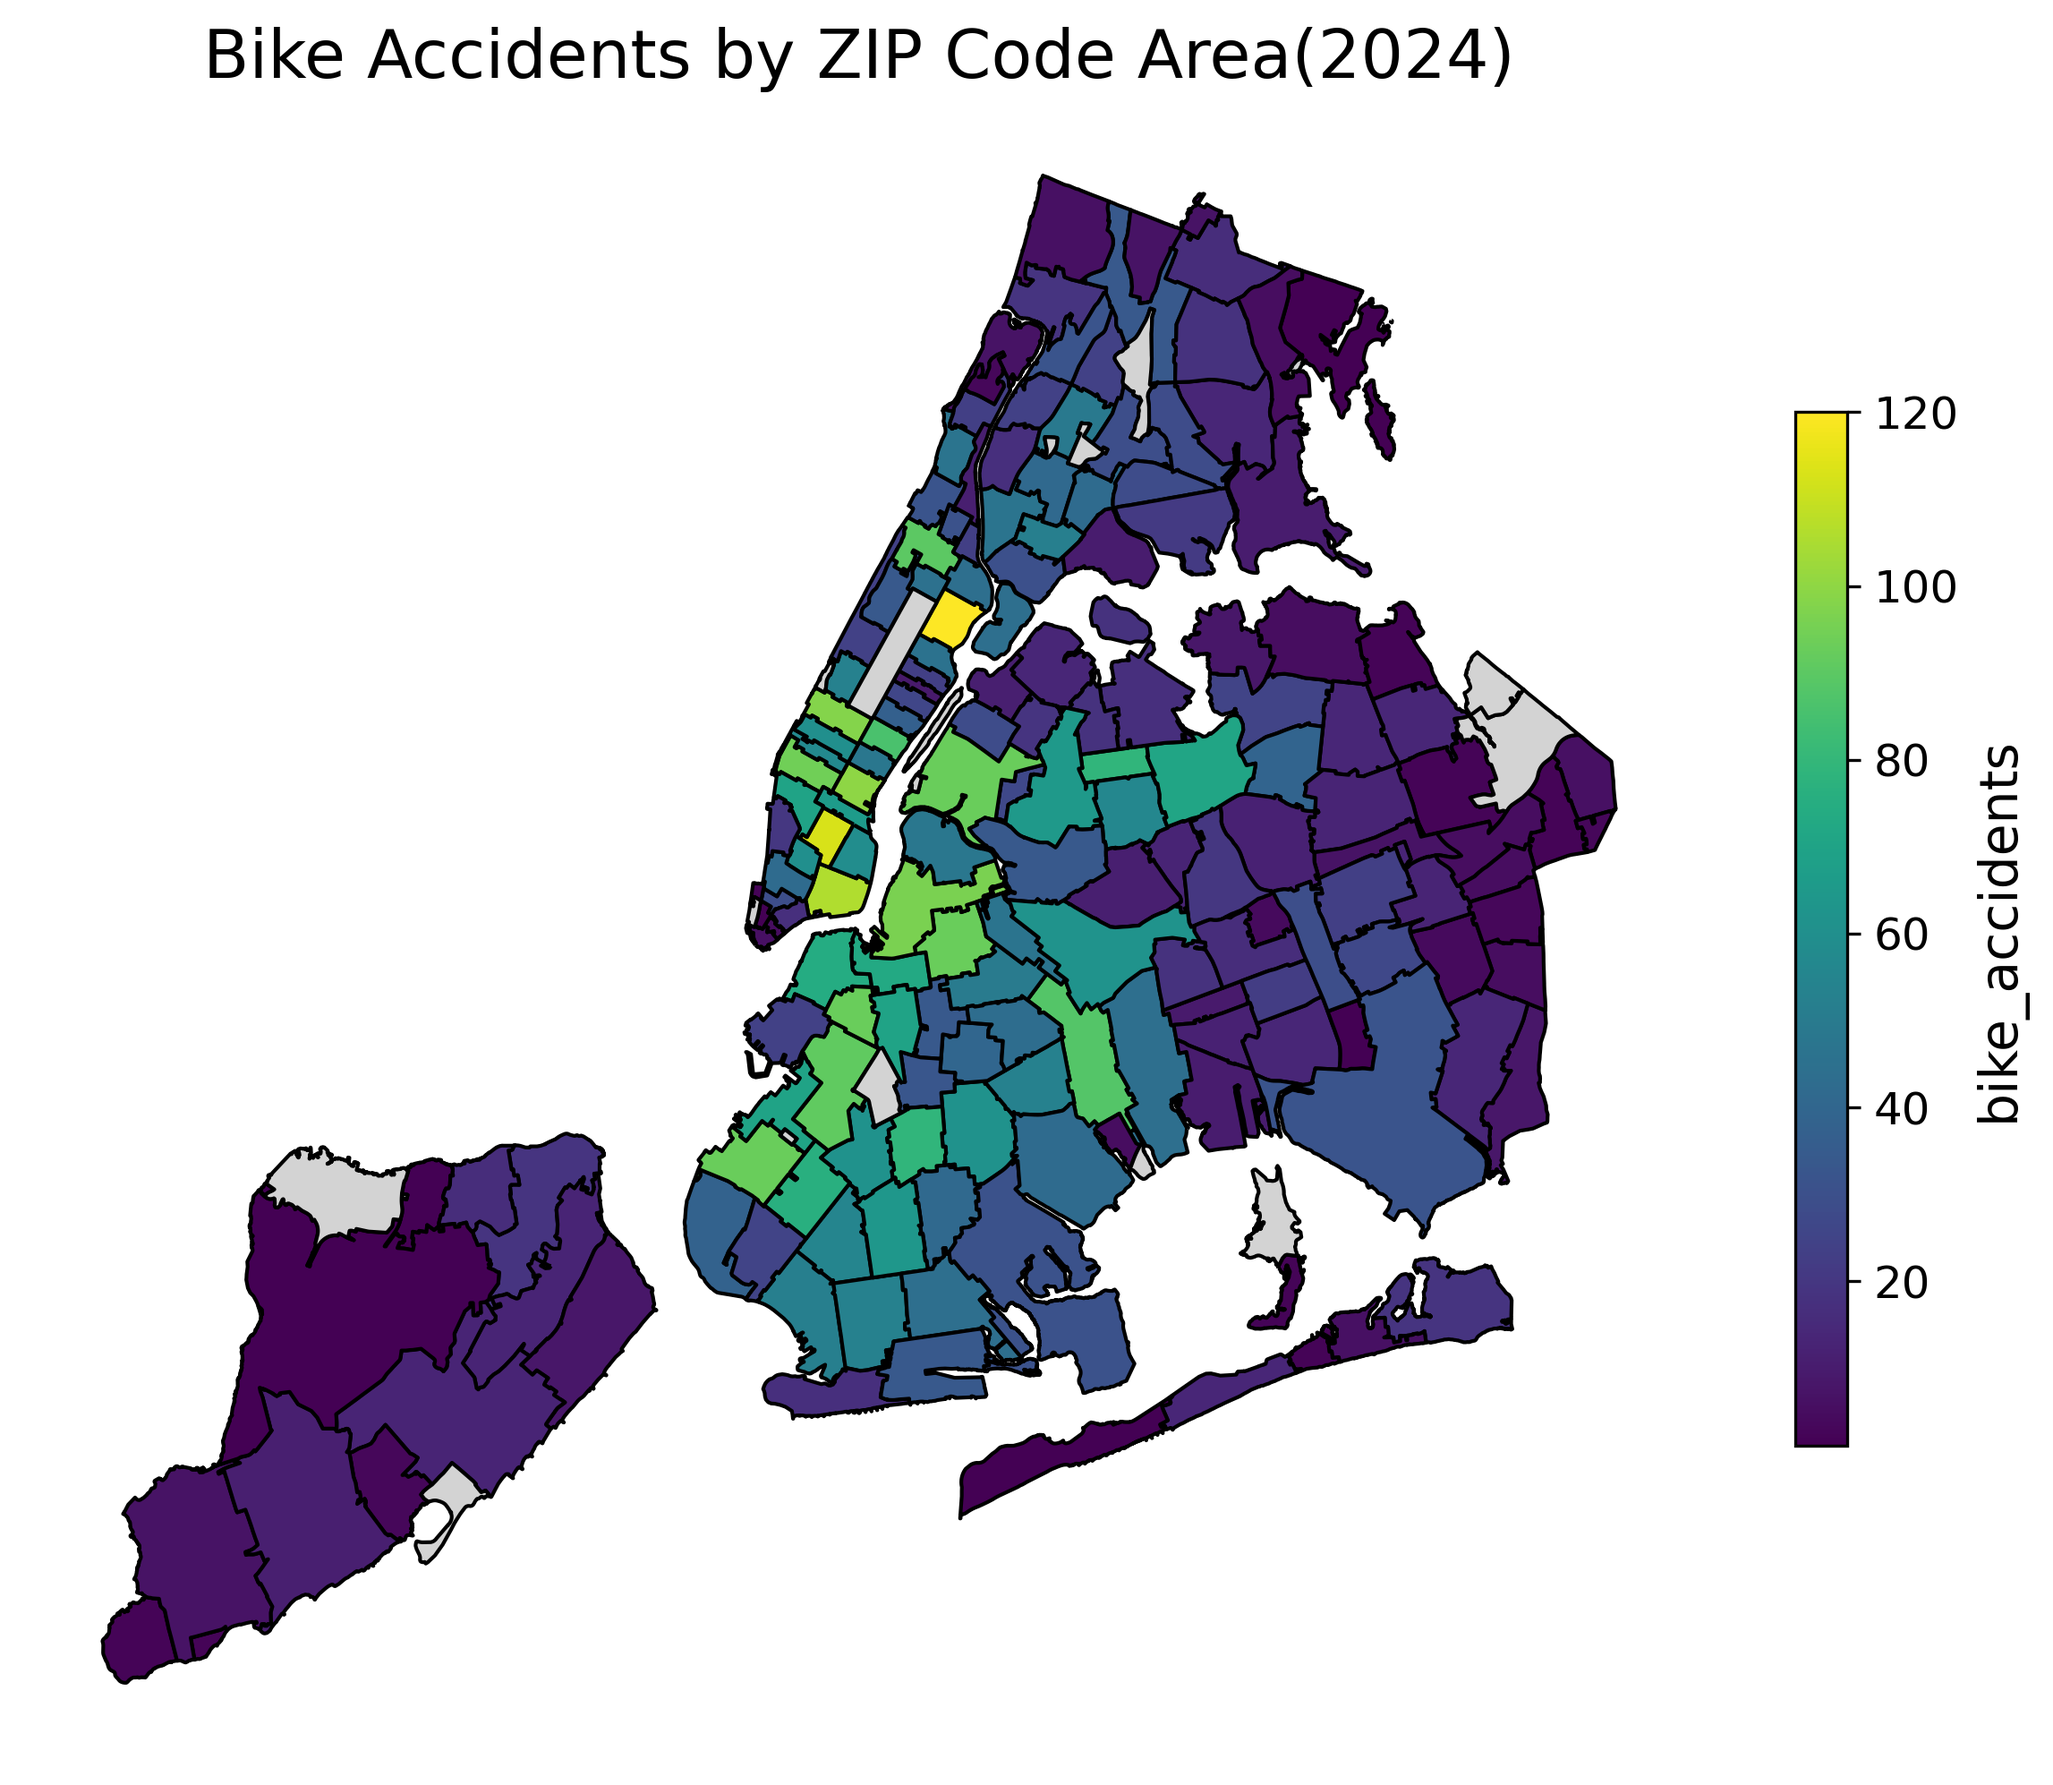
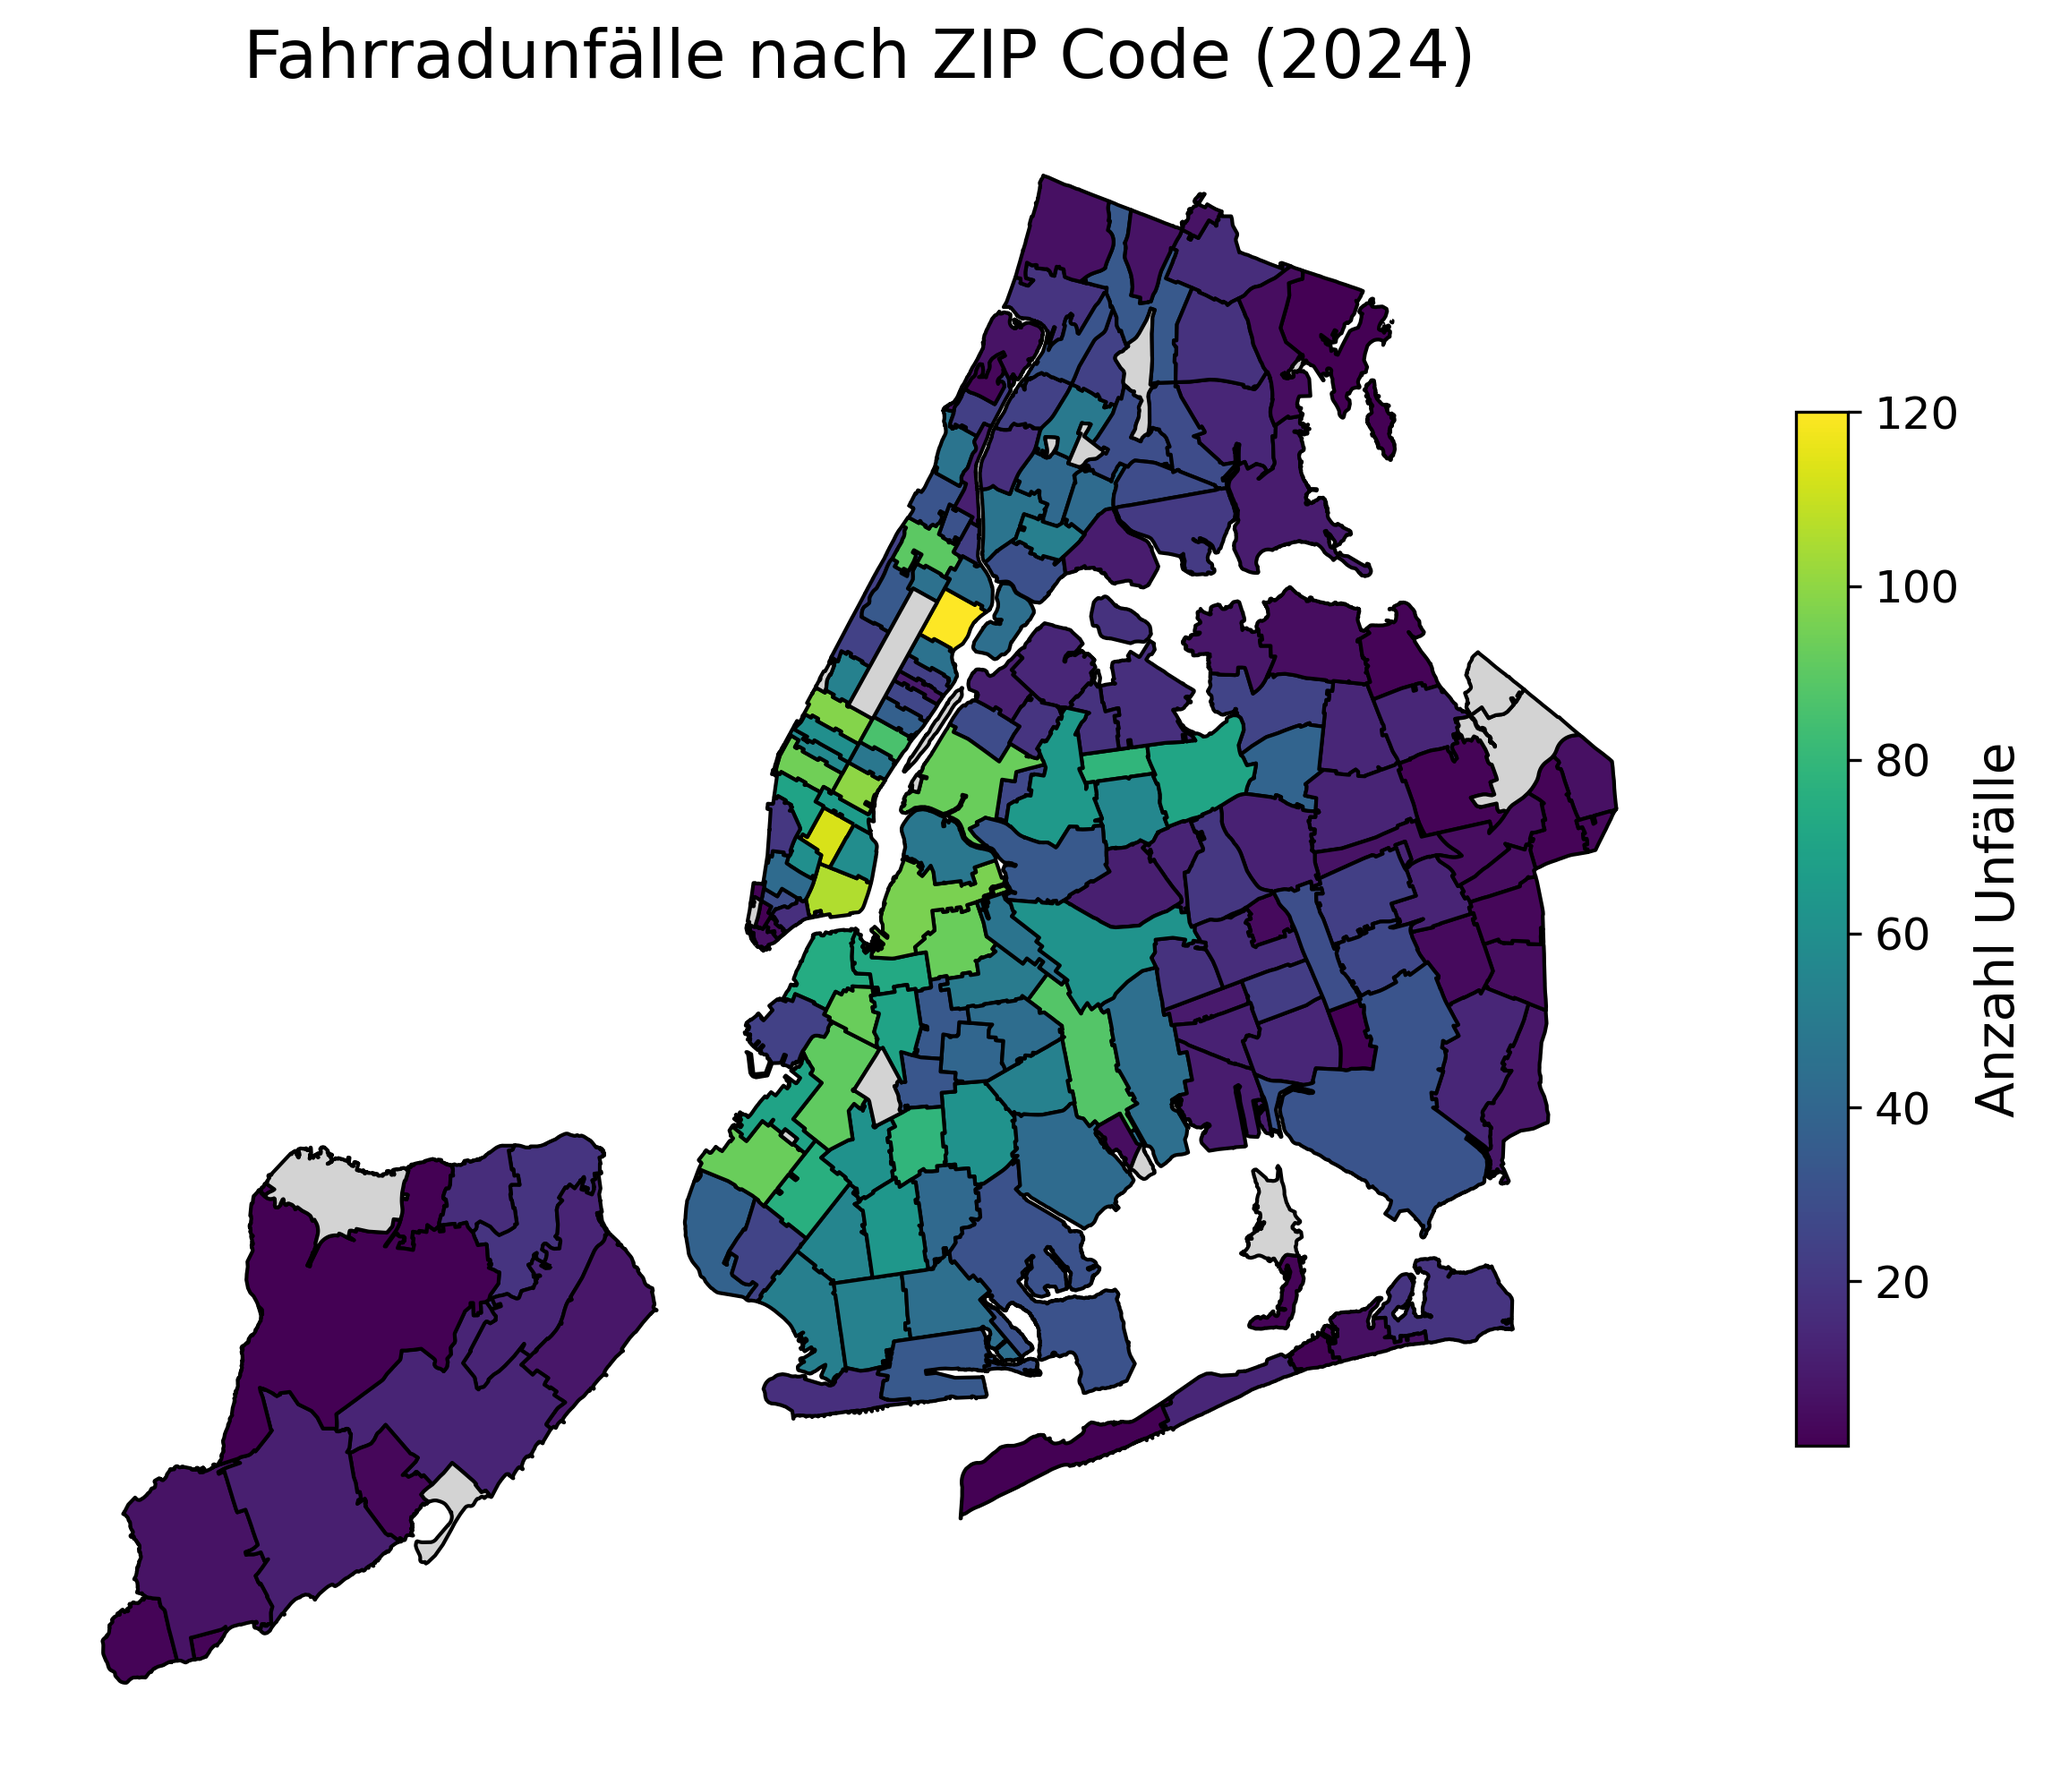
Adjust Plot Labels

diff --git a/02_analysis/subroutines/sub_create_map.py b/02_analysis/subroutines/sub_create_map.py
@@ -16,7 +16,8 @@ def plot_zip_map(
         csv_path: str = "02_analysis/subroutines/input/map_nyc/Modified_Zip_Code_Tabulation_Areas_MODZCTA_20250425.csv",
         zip_column: str = "MODZCTA",
         value_label: str = "value",
-        plot_title: str = "NYC Zip Code Map (colored by value)"
+        plot_title: str = "NYC Zip Code Map (colored by value)",
+        legend_label: str = "Value"
 ):
     """
     Plot a choropleth map of NYC zip code areas based on a CSV with geometry.
@@ -72,7 +73,7 @@ def plot_zip_map(
 
     # Adjust colorbar
     cbar = color_map.get_figure().get_axes()[-1]
-    cbar.set_ylabel(value_label, fontsize=14)
+    cbar.set_ylabel(legend_label, fontsize=14)
     cbar.tick_params(labelsize=12)
 
     # Shrink colorbar height by 50%

diff --git a/02_analysis/descriptive_statistics_accidents.py b/02_analysis/descriptive_statistics_accidents.py
@@ -459,6 +459,6 @@ sub_create_map.plot_zip_map(
     values=bike_accidents,
     output_name='bike_accidents_zip',
     value_label='bike_accidents',
-    legend_label='Bike Accidents (2024)',
-    plot_title='Bike Accidents by ZIP Code (2024)'
+    legend_label='Anzahl Unfälle',
+    plot_title='Fahrradunfälle nach ZIP Code (2024)'
 )
